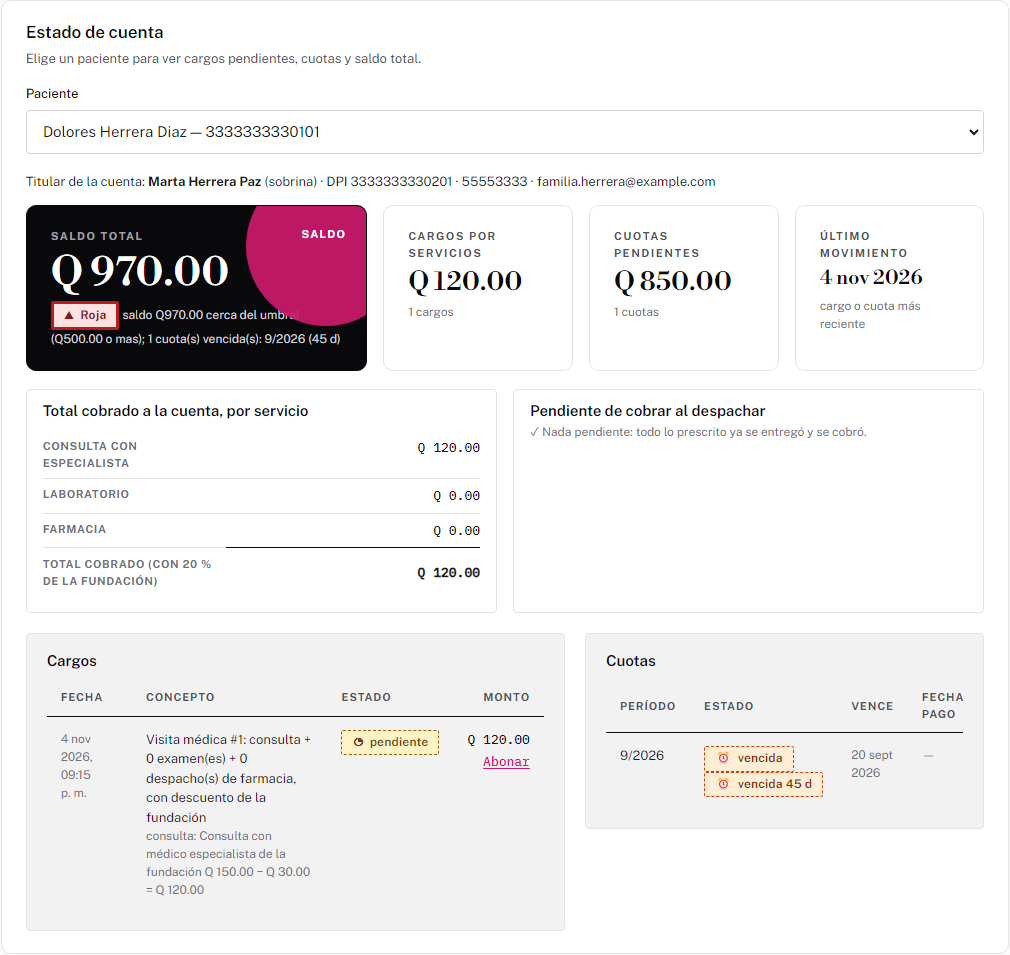
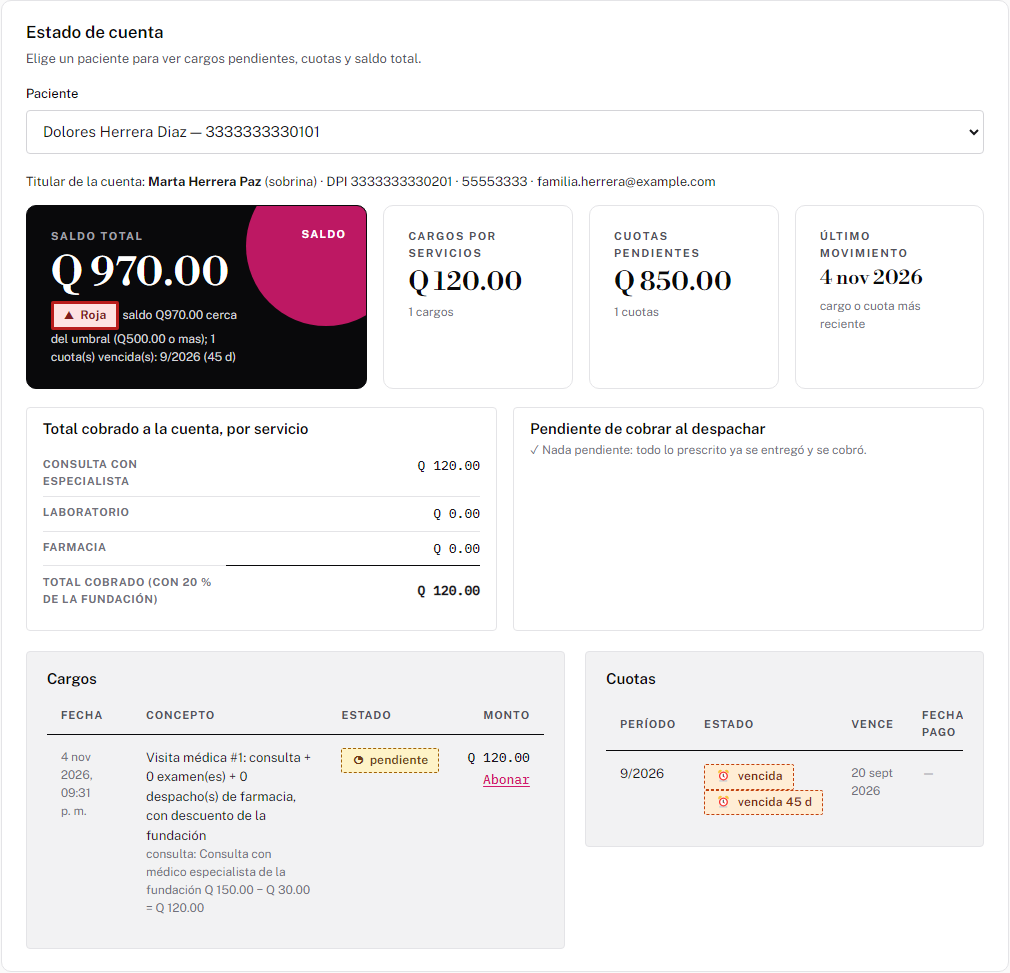
Estado de cuenta: el motivo de la alerta ya no pasa bajo el circulo
En la tarjeta oscura "Saldo total" de Financiero -> Estado de cuenta, la
primera linea del motivo de la alerta ("saldo Q... cerca del umbral...")
pasaba por debajo del circulo magenta (::after). Solo CSS: margen derecho
en .kpi-hint de esa tarjeta, 96 px en escritorio y 60 px bajo 640 px (lo
que el circulo entra menos el padding y el borde). Textos, logica y el
resto del diseño sin cambios; la tarjeta del Panel no tenia solape.

Medido por script (lineas de texto contra el disco del circulo) a 1366 y
390 px: antes solapaba a 1366; despues sin solape en ambos anchos.
Capturas saldo-antes/despues-*.png en docs/capturas/sqa/ y captura 22 del
manual rehecha. test:todo 415/415, test:ui 9/9.

diff --git a/frontend/styles.css b/frontend/styles.css
@@ -640,6 +640,10 @@ ul.cambios code { font-family: var(--font-mono); font-size: var(--fs-tiny); }
 /* Montos (Q 1,234.00): no deben partirse entre el simbolo y la cifra. */
 #estadoCuentaBox .kpi .kpi-value { white-space: nowrap; font-size: 26px; }
 #estadoCuentaBox .kpi.hero .kpi-value { font-size: 40px; }
+/* El motivo de la alerta es largo: sin este margen su primera linea pasa
+   por debajo del circulo magenta (::after, 120 px desde el borde derecho
+   menos 24 de padding y 1 de borde). */
+#estadoCuentaBox .kpi.hero .kpi-hint { padding-right: 96px; }
 
 .kpi.ok    { border-left: 3px solid var(--ok); }
 .kpi.warn  { border-left: 3px solid var(--warn); }
@@ -1057,6 +1061,7 @@ table.tabla-dato td { padding: 7px 0; border-bottom: 1px solid var(--line-weak);
   .kpi.hero .kpi-badge { right: 14px; top: 14px; }
   #estadoCuentaBox .kpi .kpi-value { font-size: 20px; }
   #estadoCuentaBox .kpi.hero .kpi-value { font-size: 32px; }
+  #estadoCuentaBox .kpi.hero .kpi-hint { padding-right: 60px; }  /* circulo de 110 px: entra 76 */
 
   /* Acceso: la presentacion se reduce a marca + titulo; el formulario
      queda a la vista sin desplazarse. */
